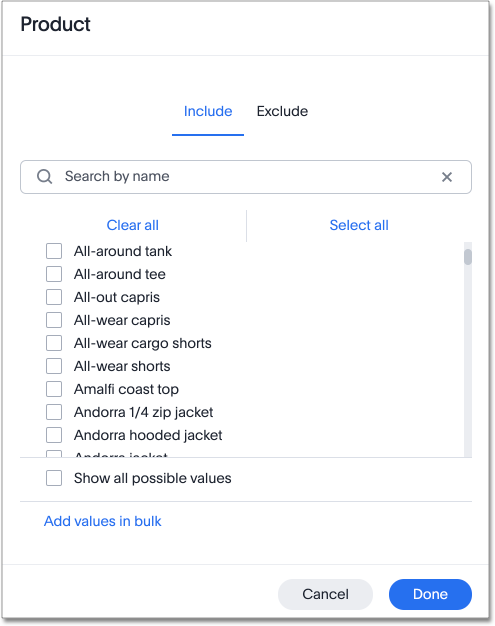
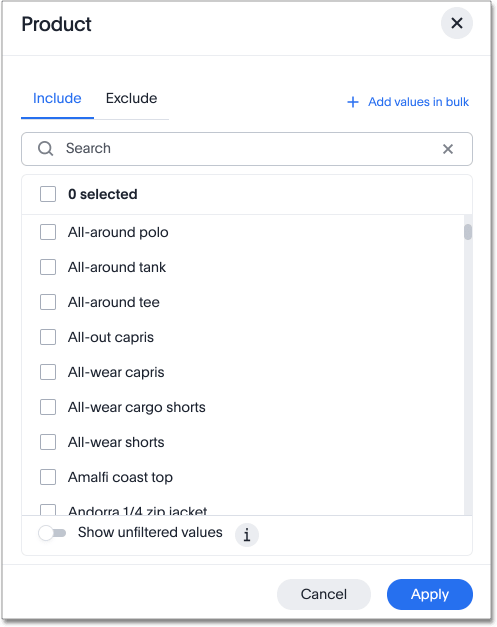
SCAL-85545 new filter ui -- screenshot updates

diff --git a/_complex-search/about-filters.md b/_complex-search/about-filters.md
@@ -84,11 +84,11 @@ This allows you to easily search a large list of filters repeatedly.
 
 ThoughtSpot applies a specific logic to objects with more than one filter. For example, you may have a Worksheet-level filter, such as `country=US`. While searching on that Worksheet, you might want to add filters for specific cities. By default, ThoughtSpot limits your possible filter values to cities in the United States, since you have a Worksheet-level `US` filter. The first filter you apply on an object always limits the available filter values you see for your second and third filters, and so on. This is because if you have a `country=US` filter, and try to add a `city=Paris,France` filter, for example, this results in *no data found*.
 
-### Show all possible values
+### Show unfiltered values
 
-When you access the filters modal in a search by selecting the **filter** icon ![filter icon]({{ site.baseurl }}/images/icon-filter-10px.png "filter icon"){: .inline}, you see an option to **Show all possible values**. This option relates to cascading filters. When you add a second filter to a search, ThoughtSpot only shows you values within the first filter you added. You may want to see all possible values without removing the first filter.
+When you access the filters modal in a search by selecting the **filter** icon ![filter icon]({{ site.baseurl }}/images/icon-filter-10px.png "filter icon"){: .inline}, you see an option to **Show unfiltered values**. This option relates to cascading filters. When you add a second filter to a search, ThoughtSpot only shows you values within the first filter you added. You may want to see all possible values without removing the first filter.
 
-For example, you have a `country=US` filter on your search, but you want to see data for Paris, France. When you open the filters modal for `city`, you do not see Paris, France. You select **Show all possible values** and select Paris, France. Then you can delete the `country=US` filter. This is especially useful if you have many filters on an object, or if you are not sure what values the columns in your data have.
+For example, you have a `country=US` filter on your search, but you want to see data for Paris, France. When you open the filters modal for `city`, you do not see Paris, France. You select **Show unfiltered values** and select Paris, France. Then you can delete the `country=US` filter. This is especially useful if you have many filters on an object, or if you are not sure what values the columns in your data have.
 
 ## Worksheet filters
 

diff --git a/_complex-search/create-bulk-filter.md b/_complex-search/create-bulk-filter.md
@@ -23,18 +23,20 @@ spreadsheet.
 1. In table view, select multiple cells by clicking and dragging.
 2. Right-click and choose **Copy to clipboard**.
 
-     ![]({{ site.baseurl }}/images/bulk_filter_copy_to_clipboard.png "Copy to the Clipboard")
+     ![Copy to clipboard]({{ site.baseurl }}/images/bulk_filter_copy_to_clipboard-new.png "Copy to the Clipboard")
 
-3. Hover over the column header you want to filter, and click the More icon ![more options menu icon]({{ site.baseurl }}/images/icon-ellipses.png){: .inline}.
+3. Hover over the column header you want to filter, and click the More icon ![more options menu icon]({{ site.baseurl }}/images/icon-more-10px.png){: .inline}.
 
 4. Choose whether you want your bulk filter to **Include** or **Exclude** values.
 
 5. Click **Add values in bulk**:
 
-     ![]({{ site.baseurl }}/images/bulk_filter_add_values_in_bulk.png "Add values in bulk")
+     ![]({{ site.baseurl }}/images/bulk_filter_add_values_in_bulk-new.png "Add values in bulk")
 
 6. Paste the values into the bulk filter box.
 
-     ![]({{ site.baseurl }}/images/bulk_filter_paste_values.png "Paste values into the bulk filter box")
+     ![]({{ site.baseurl }}/images/bulk_filter_paste_values-new.png "Paste values into the bulk filter box")
 
-7. Click **Done**.
+7. Click **Add values**.
+
+7. Click **Apply**.
